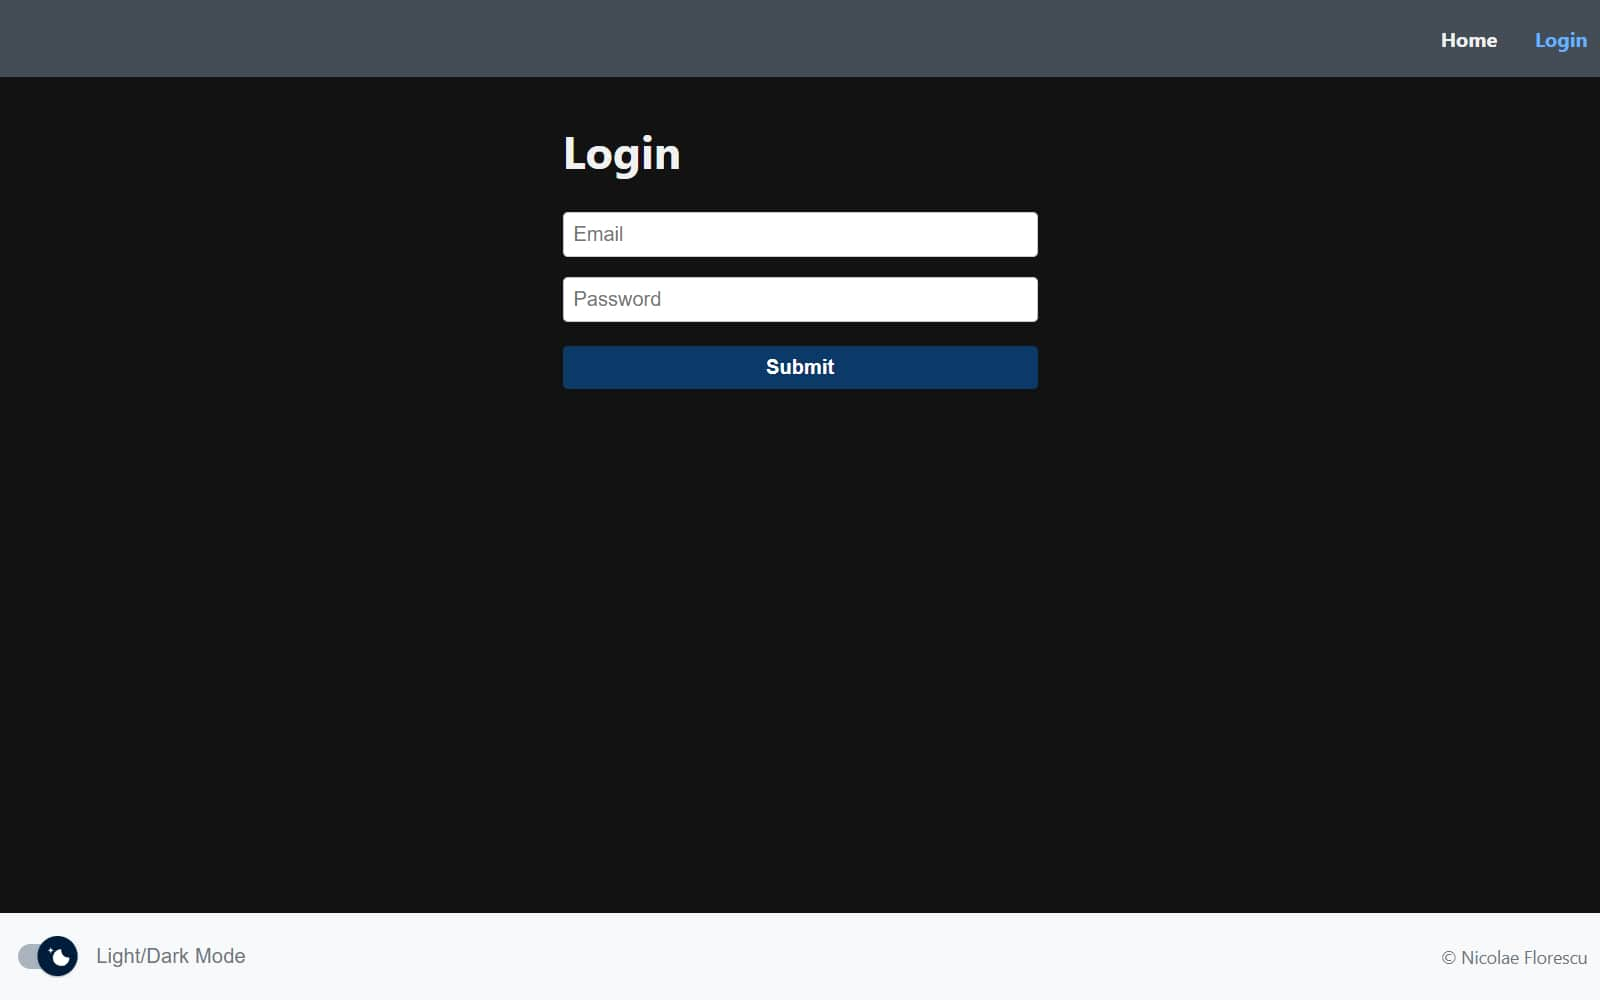
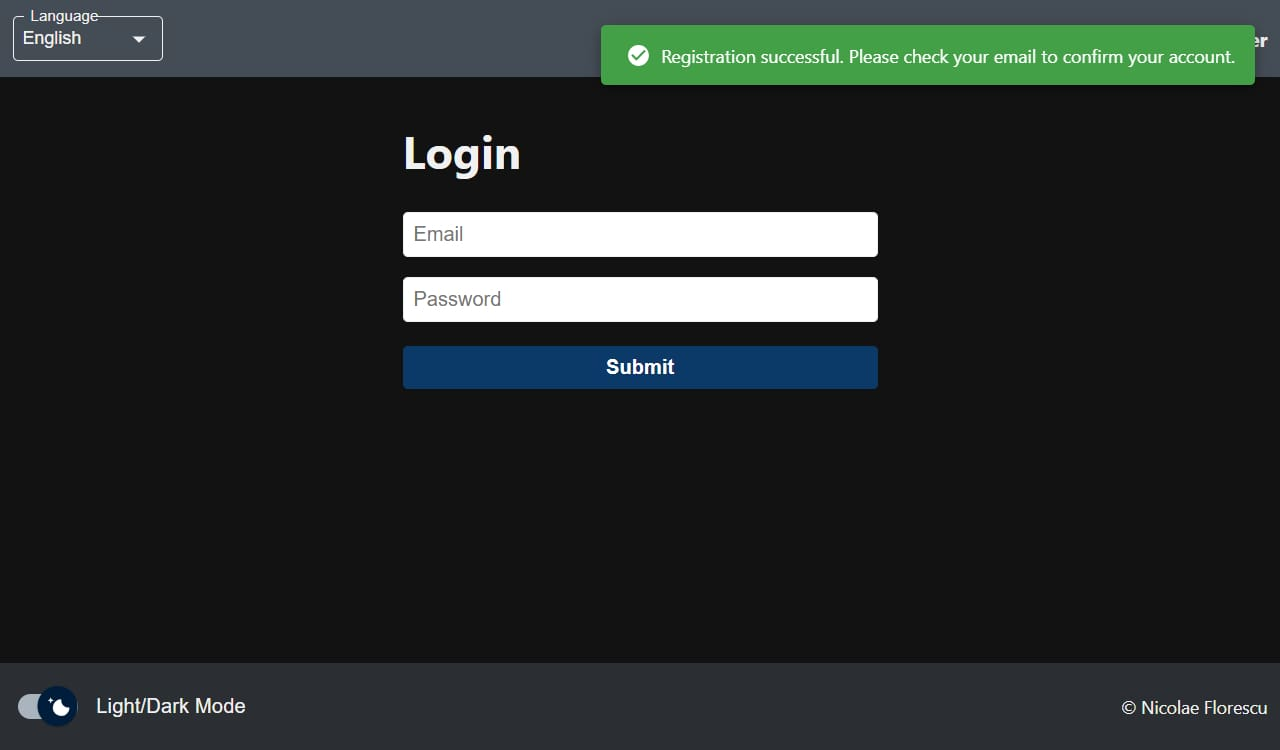
update global readme

Changed region(s): [[0.0, 0.0, 1.0, 0.4293], [0.0, 0.8587, 1.0, 1.0], [0.3125, 0.46, 0.6875, 0.5213]]

diff --git a/README.md b/README.md
@@ -12,6 +12,7 @@
 
 ## The Frontend is using
 - React 19
+- TypeScript
 - React router
 - Redux toolkit
 - React datetime
@@ -20,10 +21,20 @@
 - MUI components
 - Axios
 - JWT
-- Vitest
+- Vitest (unit and integration tests)
 - Translation with i18next and lazy loaded files
 - Light/Dark theme
+- notistack - a npm package to show notifications as on the Login page bellow
 
+## The Backend is using
+- bcrypt - to securely store passwords into the database
+- cookie-parser - to set cookies
+- cors
+- dotenv - for environment variables to seek secret data secret
+- express
+- jsonwebtoken - for authentication and authorisation 
+- mongoose - for the database
+- nodemailer - to send emails for when a new created account needs email validation
 
 # Recomended environment
 - node v20.19.3 
@@ -39,17 +50,22 @@
       </a>
     </td>
     <td>
+      <a href="images/register-page.jpg" target="_blank">
+        <img src="images/register-page.jpg" alt="Register page" width="250" style="margin:10px;" />
+      </a>
+    </td>
+    <td>
       <a href="images/dashboard-page-min.jpg" target="_blank">
         <img src="images/dashboard-page-min.jpg" alt="Dashboard page" width="250" style="margin:10px;" />
       </a>
     </td>
+  </tr>
+  <tr>
     <td>
       <a href="images/transactions-listing-min.jpg" target="_blank">
         <img src="images/transactions-listing-min.jpg" alt="Transactions listing" width="250" style="margin:10px;" />
       </a>
     </td>
-  </tr>
-  <tr>
     <td>
       <a href="images/transactions-listing-light-theme-min.jpg" target="_blank">
         <img src="images/transactions-listing-light-theme-min.jpg" alt="Transactions listing light theme" width="250" style="margin:10px;" />
@@ -60,13 +76,13 @@
         <img src="images/transactions-listing-add-transaction-min.jpg" alt="Add transaction" width="250" style="margin:10px;" />
       </a>
     </td>
+  </tr>
+  <tr>
     <td>
       <a href="images/transactions-listing-edit-transaction-min.jpg" target="_blank">
         <img src="images/transactions-listing-edit-transaction-min.jpg" alt="Edit transaction" width="250" style="margin:10px;" />
       </a>
     </td>
-  </tr>
-  <tr>
     <td>
       <a href="images/transactions-listing-remove-transaction-min.jpg" target="_blank">
         <img src="images/transactions-listing-remove-transaction-min.jpg" alt="Remove transaction" width="250" style="margin:10px;" />
